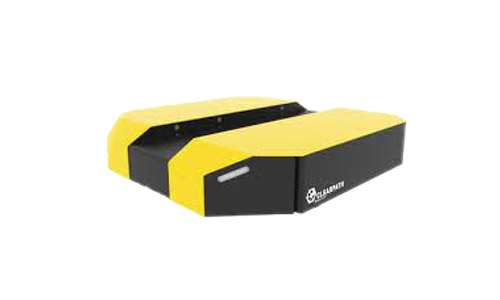
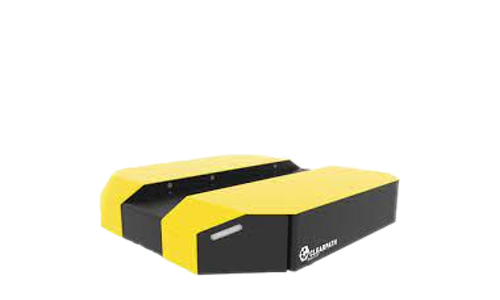
Updated home page thumbnails: Husky AMP (Adjusted sizing), Dingo, and Jackal. + Adjusted home page header margin for better spacing

Changed region(s): [[0.18, 0.3, 0.81, 0.93]]

diff --git a/src/data/features.tsx b/src/data/features.tsx
@@ -43,7 +43,7 @@ const FEATURES: FeatureItem[] = [
     }),
     image: {
       src: "/img/website_images/husky_a300_amp_thumbnail.png",
-      width: 114,
+      width: 140,
       height: 150,
       hyperlink: "/docs_robots/solutions/husky_a300_amp/",
     },

diff --git a/src/css/custom.css b/src/css/custom.css
@@ -80,6 +80,7 @@ safety-icon {
 .homepage-robot-header {
   font-size: 1.2em;
   font-weight: bold;
+  margin: 0px 0px 5px;
 }
 
 .table-container-for-centering {
